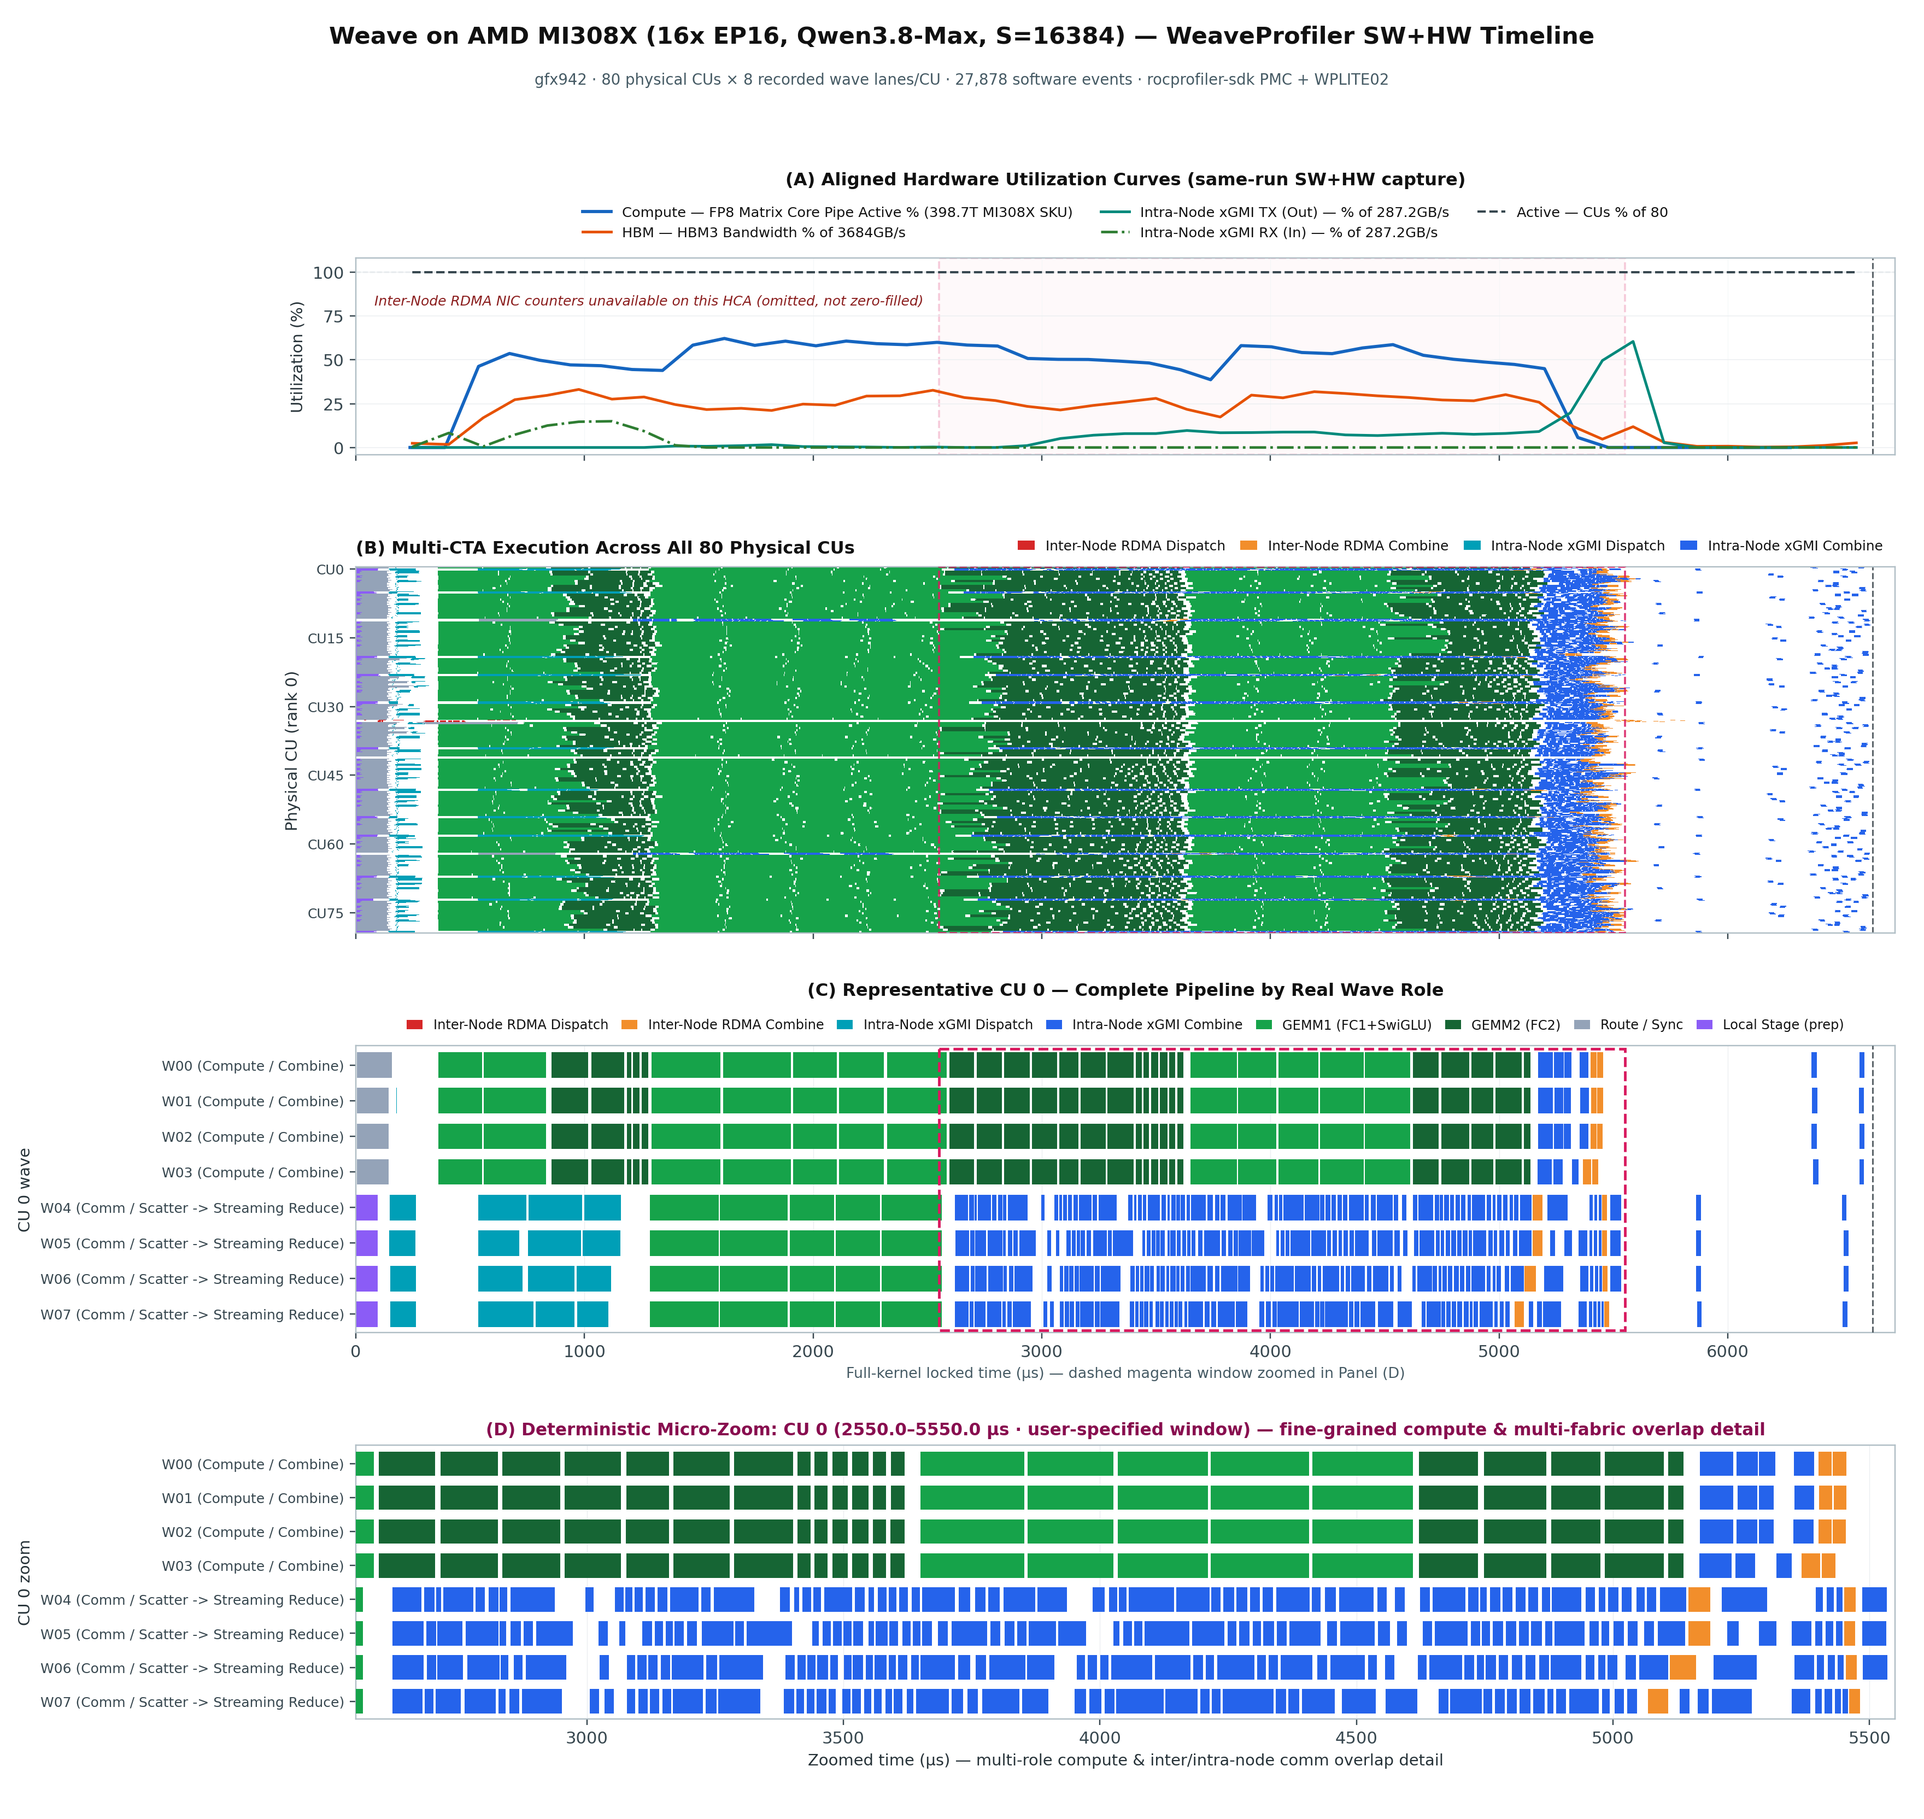
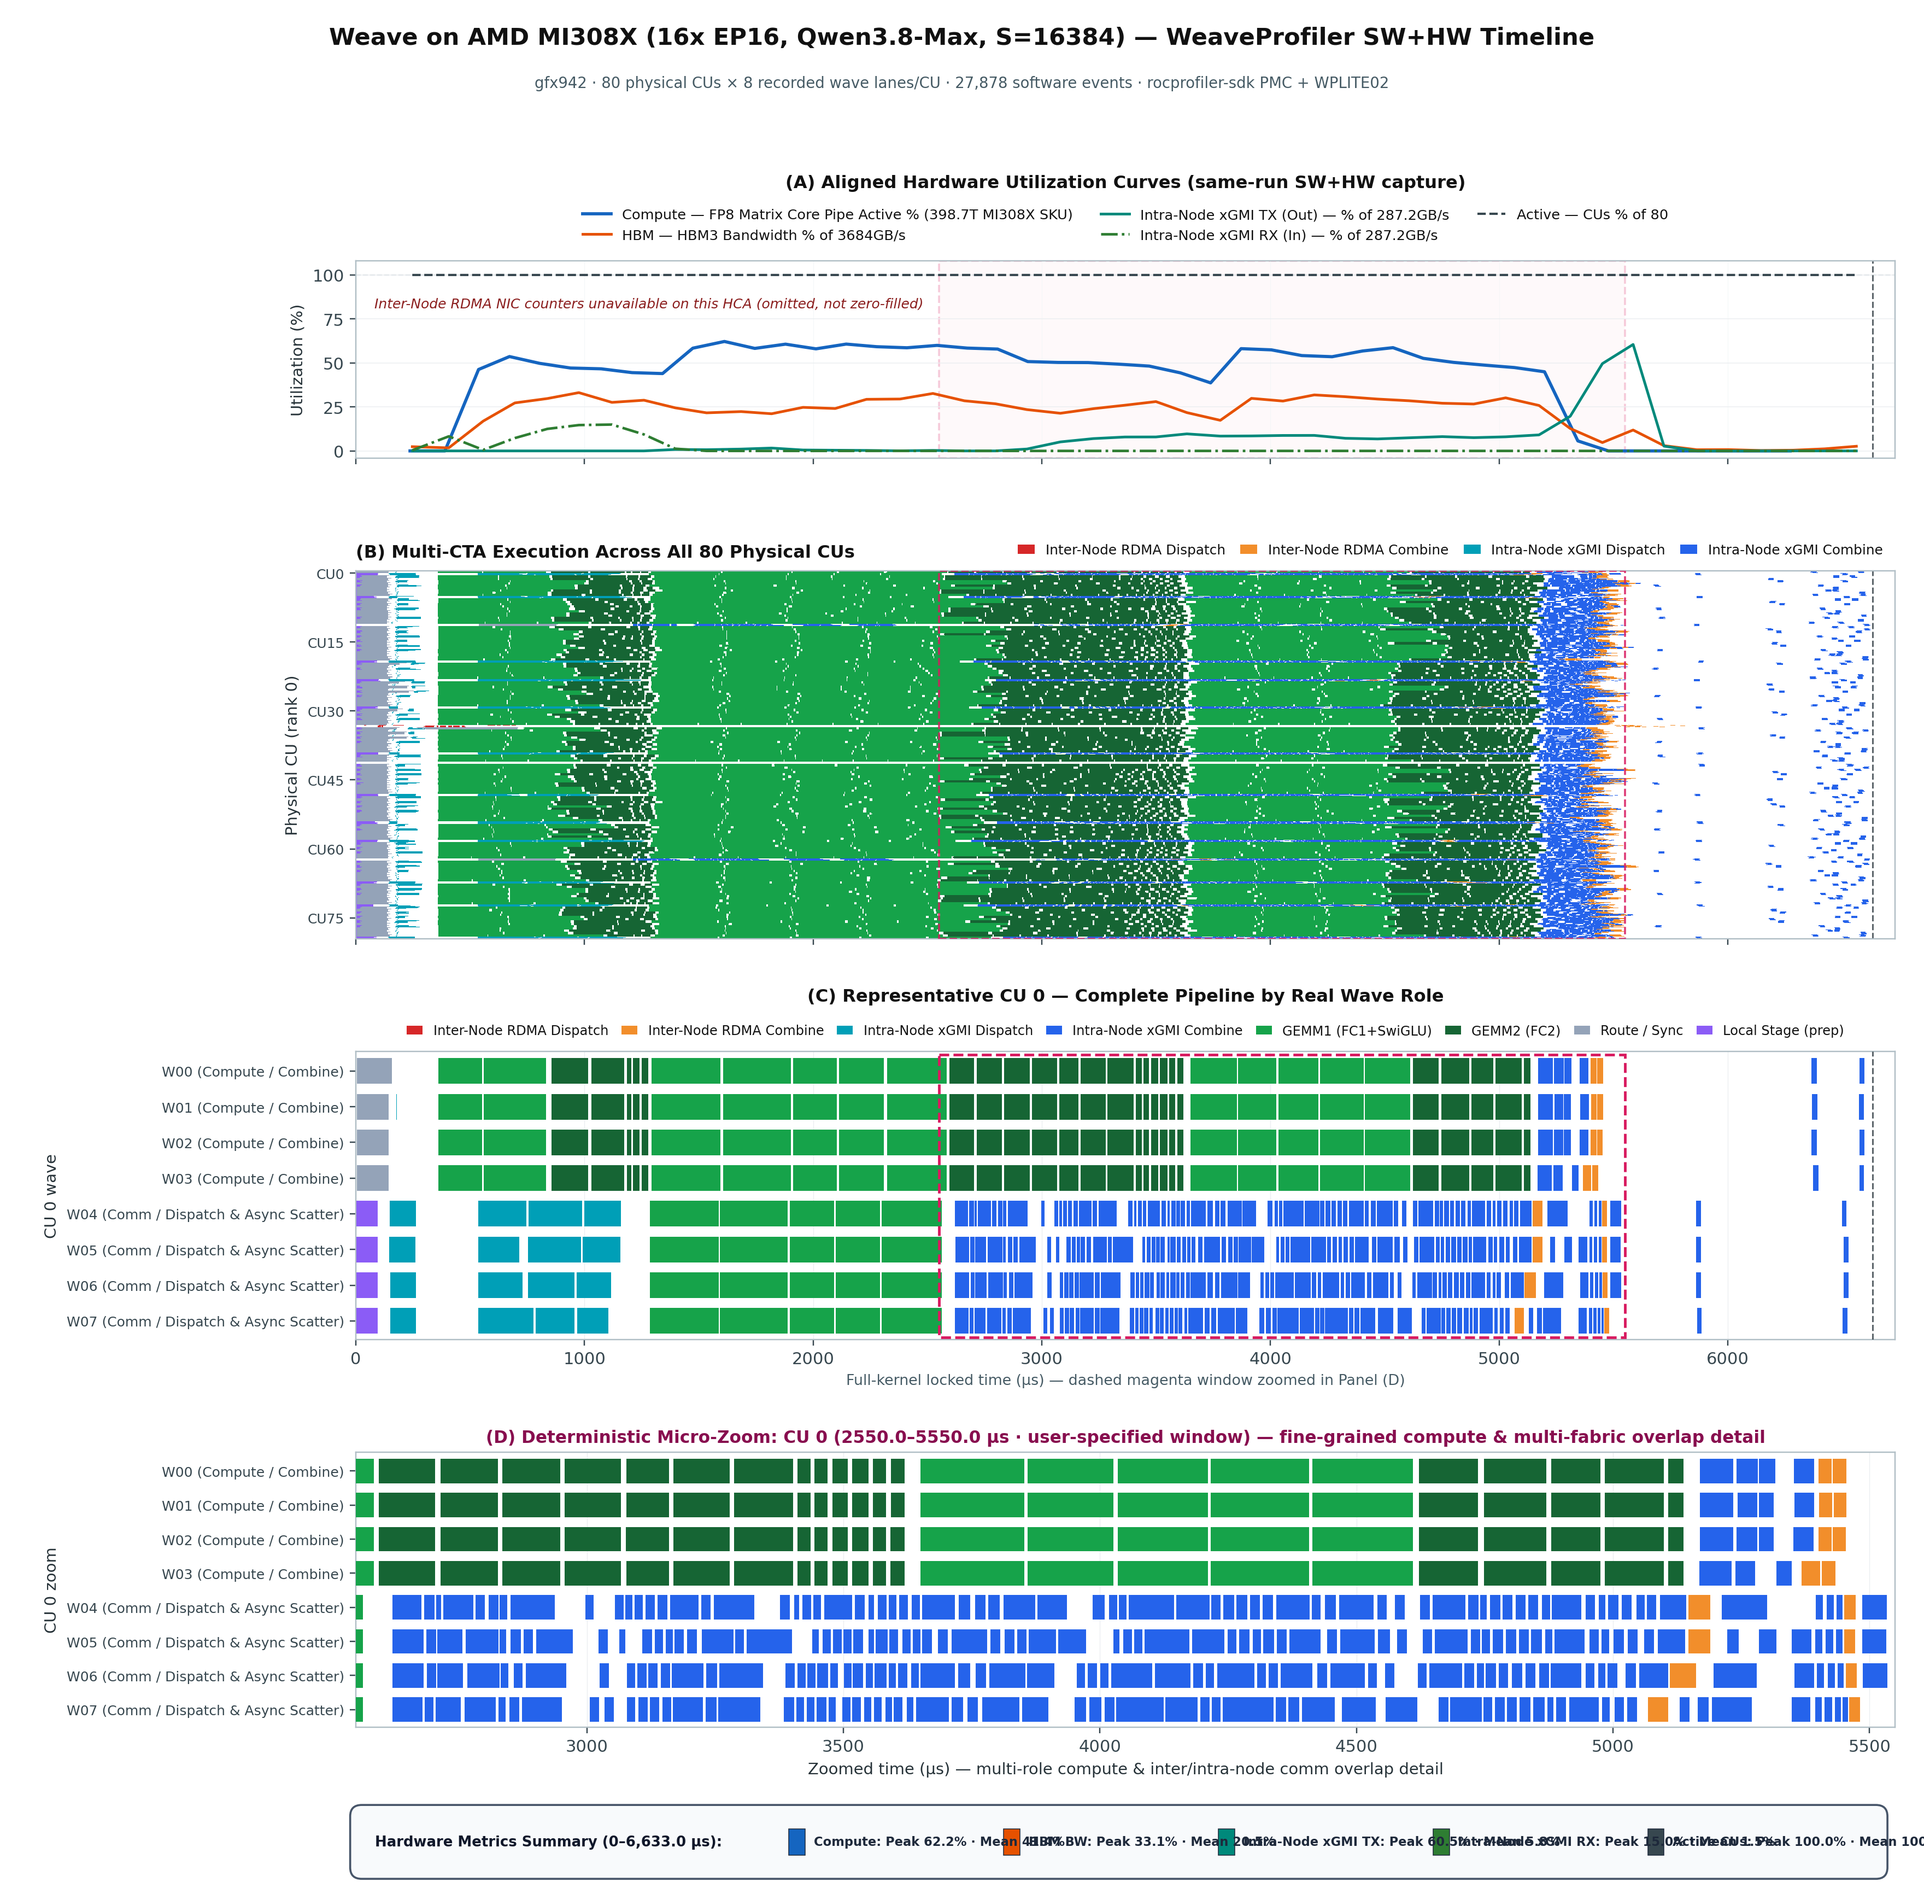
viz(mi308x): label dedicated comm waves as 'Comm / Dispatch & Async Scatter'

diff --git a/weaveprof/viz.py b/weaveprof/viz.py
@@ -932,7 +932,10 @@ def _compute_panel_c_role_labels(
         if "compute" in rl or "math" in rl:
             out.append(f"W{w:02d} (Compute / Combine)")
         elif "comm" in rl or "dispatch" in rl or "scatter" in rl:
-            suffix = "Comm / Scatter -> Streaming Reduce" if w in streaming_warps else "Comm / Scatter"
+            if is_amd:
+                suffix = "Comm / Dispatch & Async Scatter"
+            else:
+                suffix = "Comm / Scatter -> Streaming Reduce" if w in streaming_warps else "Comm / Scatter"
             out.append(f"W{w:02d} ({suffix})")
         else:
             out.append(f"W{w:02d} ({r})")

diff --git a/README_EN.md b/README_EN.md
@@ -121,7 +121,7 @@ For local Ampere desktop/laptop development:
 
 Captured on a 2-node 16×MI308X cluster (`2×8 GPUs`, `287.2 GB/s` per-direction xGMI + inter-node RDMA) running a persistent single-megakernel **MegaMoE (Qwen3.8-Max, `EP=16, S=16384, E=512, K=10`)**:
 - **Panel (A) Export-Regulated MI308X Compute Calibration & Split Full-Duplex xGMI**: Unlike H20 (`×4` GH100 die-width normalization), MI308X enforces its `398.7 TFLOPS` FP8 ceiling by throttling shader clocks to `~1.38 GHz` under dense MFMA load—already reflected in `GRBM_GUI_ACTIVE`, so raw `SQ_VALU_MFMA_BUSY_CYCLES / (80 × GRBM_GUI_ACTIVE)` directly reaches **`82.9%`** on a `376.7 TFLOPS` dense FP8 GEMM (`tensor_active_scale = 1.0`, see [amd_mi308x.md](docs/amd_mi308x.md)). Full-duplex `Intra-Node xGMI RX (In)` and `Intra-Node xGMI TX (Out)` are plotted as independent curves alongside an explicit HCA-counter unavailability note (never zero-filled).
-- **Panels (B)–(D) Dual-Color Multi-Fabric Waterfall & 3-Group `GEMM1 ↔ GEMM2` Overlap**: Across all 80 physical CUs (`2 CTAs/CU`, `W00–W03` Compute + `W04–W07` Comm/Scatter→Streaming Reduce), fused single-stage opening dispatch, cross-node Top-K deduplication & node-level pre-reduction (**`+15.1%`** standalone gain), and 3-group `GEMM1 ↔ GEMM2` interleaving launch `xGMI TX (Out)` and streaming RDMA/xGMI Combine at `t ≈ 3,550 µs` underneath **`62.2%`** Matrix Core execution, cutting latency from `17,204.0 µs` (`RCCL + AITER`) to **`6,981.1 µs` (`2.46×` speedup, 16-rank FP64 verified)**:
+- **Panels (B)–(D) Dual-Color Multi-Fabric Waterfall & 3-Group `GEMM1 ↔ GEMM2` Overlap**: Across all 80 physical CUs (`2 CTAs/CU`, `W00–W03` Compute / Combine + `W04–W07` Comm / Dispatch & Async Scatter), fused single-stage opening dispatch, cross-node Top-K deduplication & node-level pre-reduction (**`+15.1%`** standalone gain), and 3-group `GEMM1 ↔ GEMM2` interleaving launch `xGMI TX (Out)` and streaming RDMA/xGMI Combine at `t ≈ 3,550 µs` underneath **`62.2%`** Matrix Core execution, cutting latency from `17,204.0 µs` (`RCCL + AITER`) to **`6,981.1 µs` (`2.46×` speedup, 16-rank FP64 verified)**:
 
 ![2×8 AMD MI308X EP16 Qwen3.8-Max S=16384 Inter-Node RDMA and Full-Duplex xGMI Four-Panel View](docs/images/case_mi308x_ep16_megamoe_4panel.png)
 

diff --git a/README.md b/README.md
@@ -121,7 +121,7 @@ WeaveProfiler 输出的 `(在途深度 d, Exposed Wait %)` 直接给出可执行
 
 在双节点 16×MI308X（`2×8 GPUs`，机内 `287.2 GB/s` 全双工 xGMI + 跨机 RDMA）上剖析持久化单核 **MegaMoE（Qwen3.8-Max, `EP=16, S=16384, E=512, K=10`）**：
 - **Panel (A) 出口限规 SKU 算力口径校准与全双工 xGMI 拆分**：MI308X 在密集 MFMA 负载下将着色器主频动态控制在 `~1.38 GHz` 以满足 `398.7 TFLOPS` FP8 物理上限（`GRBM_GUI_ACTIVE` 直接记录真实周期，稠密 `376.7 TFLOPS` GEMM 下原始 MFMA 管线占空比即达 **`82.9%`**，详见 [amd_mi308x.md](docs/amd_mi308x.md)）；图中清晰分离了开场 `xGMI RX (In)` 入向峰值与 `t ≈ 3,550 µs` 起与计算并行拉升的 `xGMI TX (Out)` 出向曲线，并对 HCA 侧不可采的跨机 RDMA 计数器给出显式诚实注记（绝不补零）。
-- **Panel (B)–(D) 双色跨机/机内瀑布与 3 组 `GEMM1 ↔ GEMM2` 交错掩盖**：全卡 80 CUs（每 CU 双 CTA `4 Compute + 4 Comm/Scatter` 分波）将开场跨机/机内分发融合为单阶段，配合跨机 Top-K 路由去重预归约（单点带来 **`+15.1%`** 收益）与 3 组 `GEMM1 ↔ GEMM2` 交错流水，使 `W04–W07` 通信 Wave 在后半程 `MFMA` 管线满载（峰值 **`62.2%`**）的同时异步推进跨机 RDMA 与机内 xGMI 流式归约，端到端延迟由 `RCCL + AITER` 的 `17,204.0 µs` 降至 **`6,981.1 µs`（`2.46×` 加速，16 卡全元素 FP64 校验通过）**：
+- **Panel (B)–(D) 双色跨机/机内瀑布与 3 组 `GEMM1 ↔ GEMM2` 交错掩盖**：全卡 80 CUs（每 CU 双 CTA `4 Compute + 4 Comm / Dispatch & Async Scatter` 分波）将开场跨机/机内分发融合为单阶段，配合跨机 Top-K 路由去重预归约（单点带来 **`+15.1%`** 收益）与 3 组 `GEMM1 ↔ GEMM2` 交错流水，使 `W04–W07` 通信 Wave 在后半程 `MFMA` 管线满载（峰值 **`62.2%`**）的同时异步推进跨机 RDMA 与机内 xGMI 流式归约，端到端延迟由 `RCCL + AITER` 的 `17,204.0 µs` 降至 **`6,981.1 µs`（`2.46×` 加速，16 卡全元素 FP64 校验通过）**：
 
 ![2×8 AMD MI308X EP16 Qwen3.8-Max S=16384 跨机 RDMA 与机内全双工 xGMI 四联对齐图](docs/images/case_mi308x_ep16_megamoe_4panel.png)
 
